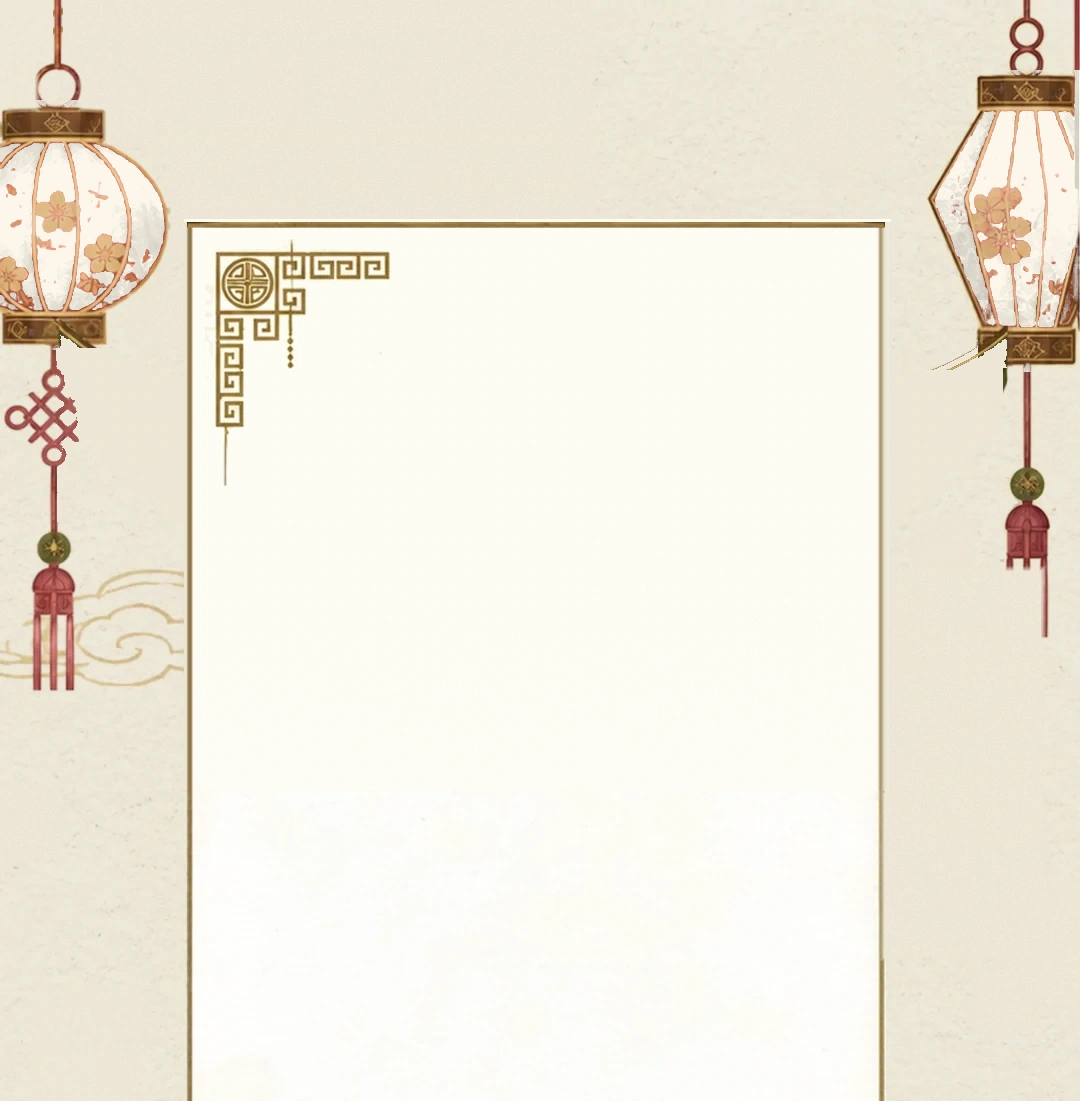
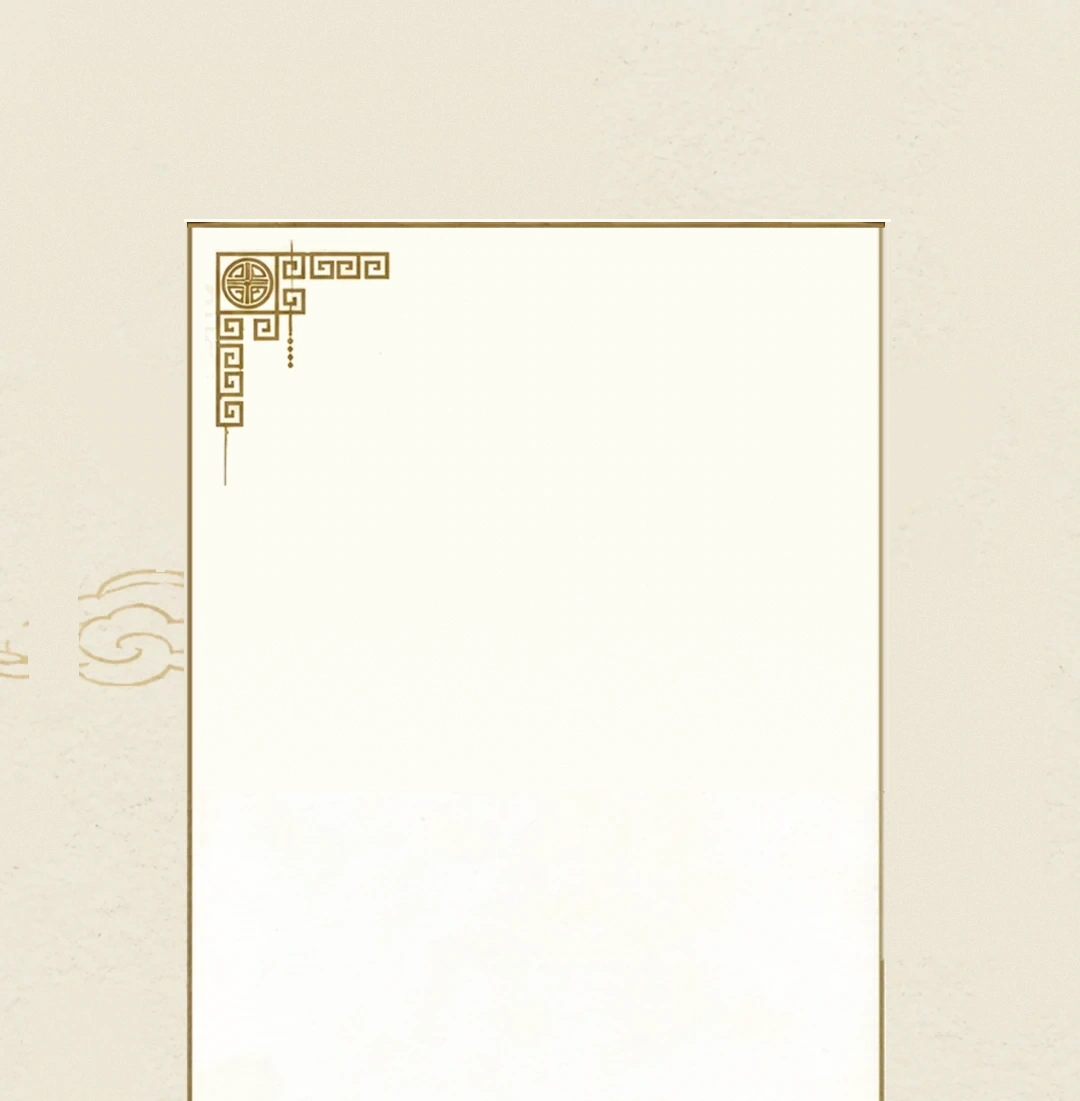
feat: RSVP lanterns pulled into viewport with gentle wind sway
Split the two lanterns out of rsvp-card-top into mirrored, transparent
sprites (recolor-paper.mjs) and place them inside the visible area.

Changed region(s): [[0.8556, 0.0, 1.0, 0.5867], [0.0, 0.0, 0.1528, 0.6485], [0.1528, 0.1853, 0.1833, 0.2162]]

diff --git a/components/sections/Rsvp.tsx b/components/sections/Rsvp.tsx
@@ -47,6 +47,21 @@ const MID_ORNAMENTS: readonly OrnamentPlacement[] = [
 ] as const;
 
 /**
+ * Hai đèn lồng treo ở đỉnh thiệp, đung đưa nhẹ như có gió. Trong tranh gốc chúng
+ * bị cắt ở mép ảnh rồi bị 10% tràn của thiệp cắt thêm; sprite (xem
+ * scripts/recolor-paper.mjs) đã được dựng lại nguyên chiếc, ở đây chỉ việc đặt
+ * chúng xịch vào trong vùng nhìn thấy (10%–90% bề ngang thiệp).
+ *
+ * `at` + `w` tính theo % bề ngang KHUNG thiệp; sprite rộng nhất ở trục dây treo
+ * nên `left` = tâm − w/2. `delay`/`duration` lệch nhau để hai đèn không đung
+ * đưa đồng pha.
+ */
+const LANTERNS = [
+  { name: "lantern-left", left: "9.8%", w: "13.5%", delay: "0s", duration: "6.5s" },
+  { name: "lantern-right", left: "77%", w: "12%", delay: "-2.4s", duration: "7.5s" },
+] as const;
+
+/**
  * Form RSVP — chế độ `general`: một form mở, ai có link site cũng trả lời được.
  *
  * Bảy câu hỏi, hỏi dần theo câu trả lời:
@@ -208,6 +223,25 @@ export function Rsvp() {
               className="w-full"
             />
           ) : null}
+        </div>
+
+        <div aria-hidden className={`pointer-events-none absolute inset-y-0 ${CARD_BLEED}`}>
+          {LANTERNS.map((l) => {
+            const art = element(l.name);
+            if (!art) return null;
+            return (
+              <Image
+                key={l.name}
+                src={art.src}
+                alt=""
+                width={art.width ?? 200}
+                height={art.height ?? 650}
+                unoptimized
+                className="absolute top-0 h-auto origin-top animate-sway-soft select-none motion-reduce:animate-none"
+                style={{ left: l.left, width: l.w, animationDelay: l.delay, animationDuration: l.duration }}
+              />
+            );
+          })}
         </div>
 
         <Ornaments items={MID_ORNAMENTS} />

diff --git a/content/assets.ts b/content/assets.ts
@@ -22,6 +22,8 @@ export const assets = {
     "dresscode": { src: "/brand/elements/dresscode.webp", width: 1080, height: 2300 },
     "flower-red-left": { src: "/brand/elements/flower-red-left.webp", width: 58, height: 66 },
     "flower-red-right": { src: "/brand/elements/flower-red-right.webp", width: 72, height: 116 },
+    "lantern-left": { src: "/brand/elements/lantern-left.webp", width: 246, height: 700 },
+    "lantern-right": { src: "/brand/elements/lantern-right.webp", width: 210, height: 650 },
     "lotus-left-stem": { src: "/brand/elements/lotus-left-stem.webp", width: 720, height: 286 },
     "lotus-left-top": { src: "/brand/elements/lotus-left-top.webp", width: 720, height: 2092 },
     "lotus-right": { src: "/brand/elements/lotus-right.webp", width: 720, height: 1651 },
